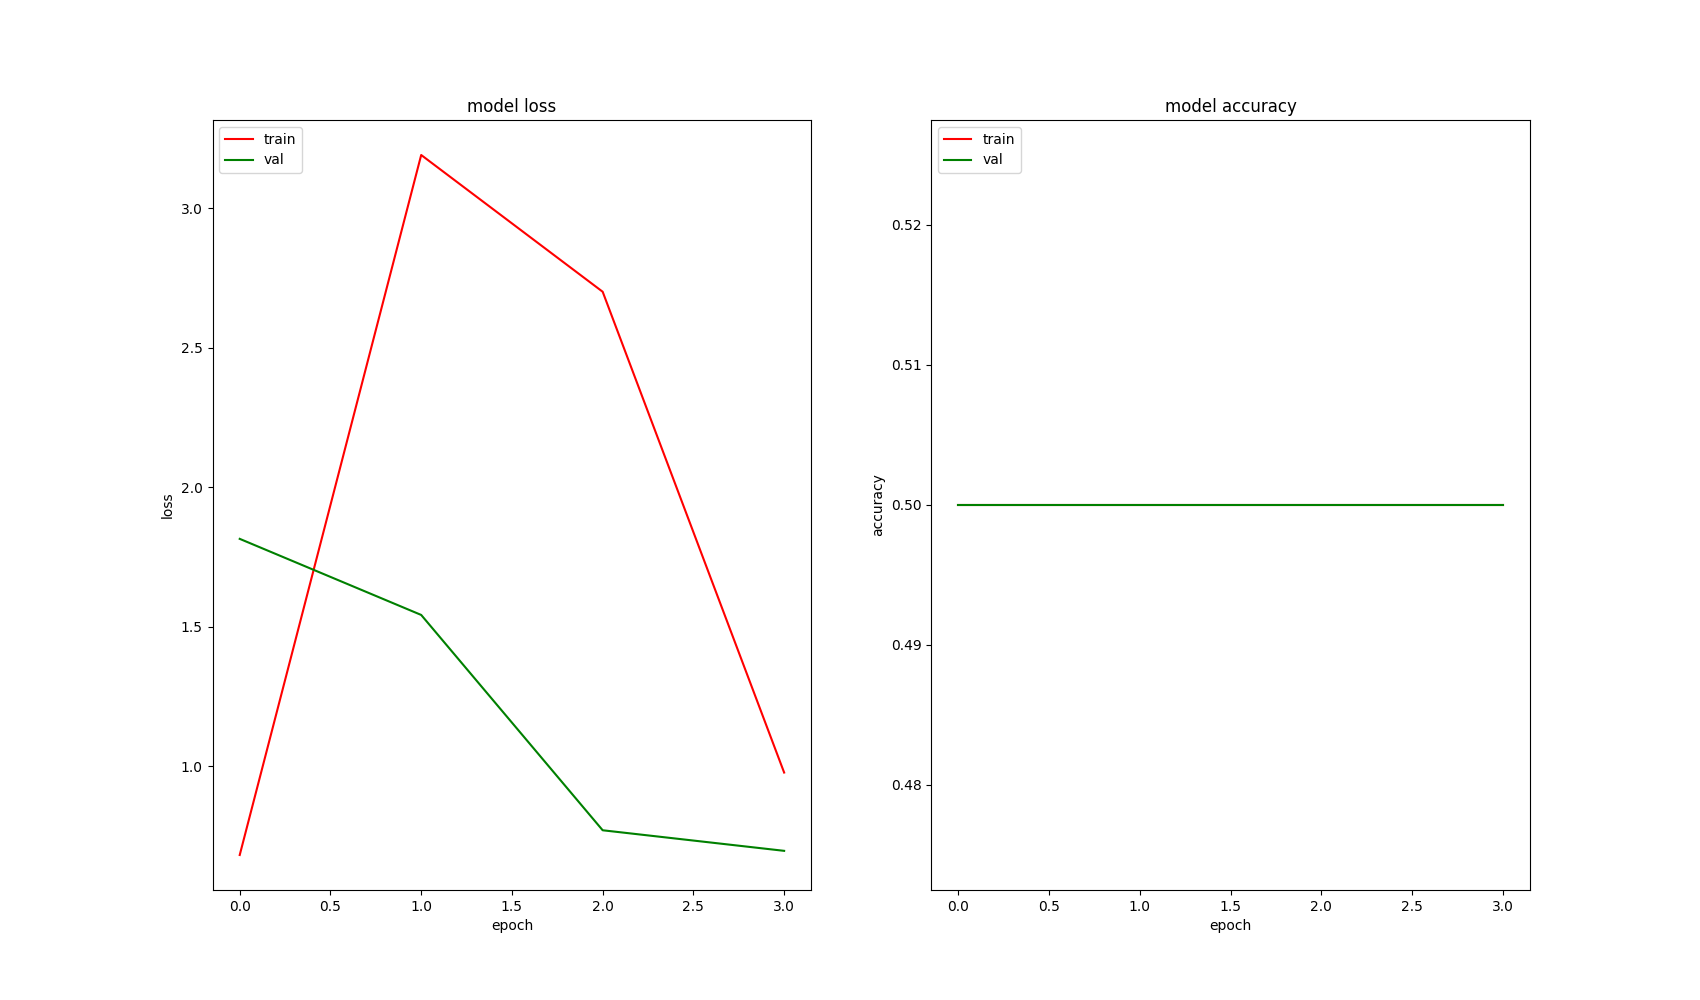
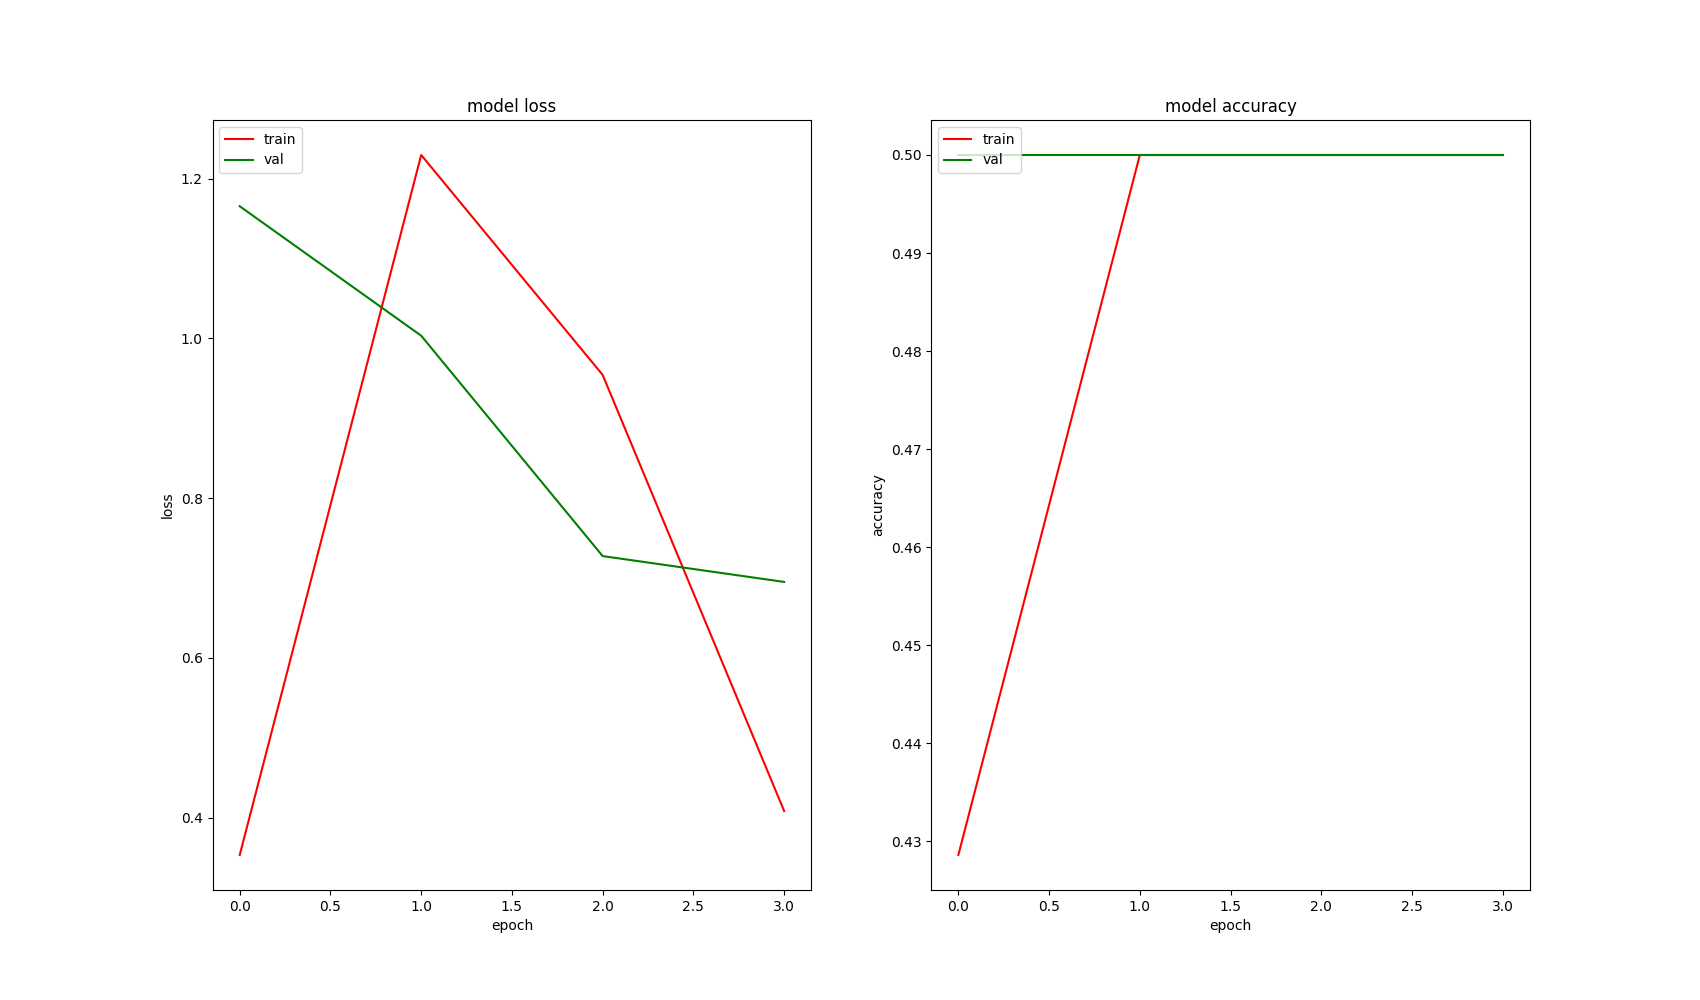
include the class weight

diff --git a/neural_network_model/bit_vision.py b/neural_network_model/bit_vision.py
@@ -84,8 +84,8 @@ class BitVision:
         train test val data details in the dict.
         """
         resource_dir = (
-            self.train_test_val_dir
-            or Path(__file__).parent / ".." / self.train_test_val_dir
+                self.train_test_val_dir
+                or Path(__file__).parent / ".." / self.train_test_val_dir
         )
         # get the list of dirs in the resource_dir
         subdir_name = os.listdir(resource_dir)
@@ -264,8 +264,8 @@ class BitVision:
 
             generator = datagen.flow_from_directory(
                 directory=self.train_test_val_dir / subdir
-                or SETTING.PREPROCESSING_SETTING.TRAIN_TEST_VAL_SPLIT_DIR_ADDRESS
-                / subdir,
+                          or SETTING.PREPROCESSING_SETTING.TRAIN_TEST_VAL_SPLIT_DIR_ADDRESS
+                          / subdir,
                 target_size=SETTING.FLOW_FROM_DIRECTORY_SETTING.TARGET_SIZE,
                 color_mode=SETTING.FLOW_FROM_DIRECTORY_SETTING.COLOR_MODE,
                 classes=None,
@@ -288,7 +288,7 @@ class BitVision:
             logger.info(f"Rescaling {subdir} data, {generator.class_indices}:")
 
     def _check_points(
-        self, model_save_address: str, model_name: str
+            self, model_save_address: str, model_name: str
     ) -> ModelCheckpoint:
         check_point = ModelCheckpoint(
             model_save_address / model_name,
@@ -305,8 +305,24 @@ class BitVision:
         total = sum(my_dict.values())
         return total
 
+    def _calculate_class_weight(self, class_counts: dict) -> dict:
+        class_labels = list(class_counts.keys())
+        class_indices = {label: index for index, label in enumerate(class_labels)}
+
+        total_samples = sum(class_counts.values())
+        class_weight = {}
+        for class_label, count in class_counts.items():
+            class_index = class_indices[class_label]
+            class_weight[class_index] = total_samples / (len(class_counts) * count)
+
+        # Normalize the class weights
+        class_weight_sum = sum(class_weight.values())
+        for class_index in class_weight:
+            class_weight[class_index] /= class_weight_sum
+        return class_weight
+
     def train_model(
-        self, model_save_address: Path = SETTING.MODEL_SETTING.MODEL_PATH, **kwargs
+            self, model_save_address: Path = SETTING.MODEL_SETTING.MODEL_PATH, **kwargs
     ) -> None:
         """
         This function is used to train the model.
@@ -329,6 +345,10 @@ class BitVision:
         BATCH_SIZE = SETTING.FLOW_FROM_DIRECTORY_SETTING.BATCH_SIZE
         TRAINING_SIZE = self._calculate_number_from_dict(self.data_details["train"])
         VALIDATION_SIZE = self._calculate_number_from_dict(self.data_details["val"])
+
+        if not class_weight:
+            class_weight = self._calculate_class_weight(self.data_details["train"])
+
         # We take the ceiling because we do not drop the remainder of the batch
         compute_steps_per_epoch = lambda x: int(math.ceil(1.0 * x / BATCH_SIZE))
         steps_per_epoch = compute_steps_per_epoch(TRAINING_SIZE)
@@ -387,8 +407,8 @@ class BitVision:
 
     @staticmethod
     def _filter_out_list(
-        ignore_list: List[str] = SETTING.IGNORE_SETTING.IGNORE_LIST,
-        list_to_be_edited: List[str] = None,
+            ignore_list: List[str] = SETTING.IGNORE_SETTING.IGNORE_LIST,
+            list_to_be_edited: List[str] = None,
     ) -> List[str]:
         for case in ignore_list:
             if case in list_to_be_edited:
@@ -447,10 +467,10 @@ class BitVision:
 
             for i, img in enumerate(test_images_list[0:number_of_test_to_pred]):
                 path_to_img = (
-                    self.train_test_val_dir
-                    / SETTING.PREPROCESSING_SETTING.TRAIN_TEST_SPLIT_DIR_NAMES[1]
-                    / category
-                    / str(img)
+                        self.train_test_val_dir
+                        / SETTING.PREPROCESSING_SETTING.TRAIN_TEST_SPLIT_DIR_NAMES[1]
+                        / category
+                        / str(img)
                 ).resolve()
 
                 img = load_img(
@@ -631,10 +651,10 @@ class BitVision:
 
     @staticmethod
     def _save_and_display_gradcam(
-        img_path,
-        heatmap,
-        cam_path=SETTING.GRAD_CAM_SETTING.IMAGE_NEW_NAME,
-        alpha=SETTING.GRAD_CAM_SETTING.ALPHA,
+            img_path,
+            heatmap,
+            cam_path=SETTING.GRAD_CAM_SETTING.IMAGE_NEW_NAME,
+            alpha=SETTING.GRAD_CAM_SETTING.ALPHA,
     ):
         # Load the original image
         img = keras.preprocessing.image.load_img(img_path)
@@ -664,7 +684,7 @@ class BitVision:
 
     @staticmethod
     def return_best_model_name(
-        directory: Path = SETTING.MODEL_SETTING.MODEL_PATH,
+            directory: Path = SETTING.MODEL_SETTING.MODEL_PATH,
     ) -> str:
         """
         Return the best model name
@@ -677,9 +697,9 @@ class BitVision:
 
         for filename in os.listdir(directory):
             if (
-                filename.endswith(".h5")
-                and "val_acc" in filename
-                and "val_accuracy" not in filename
+                    filename.endswith(".h5")
+                    and "val_acc" in filename
+                    and "val_accuracy" not in filename
             ):
                 # Extract the validation accuracy from the filename
                 print(filename.split("_val_acc_")[1].split("_.h5")[0])
@@ -709,14 +729,13 @@ if __name__ == "__main__":
     obj.plot_history()
     obj.predict(num_rows=2, num_cols=2, figsize=(4, 10))
     print(obj.layer_names)
-
     for conv_layer in obj.layer_names["conv_layer"]:
         obj.grad_cam_viz(
             gradcam_fig_name="test.png",
             print_layer_names=False,
             test_folder_dir=Path(__file__).parent
-            / ".."
-            / "dataset_train_test_val"
-            / "test",
+                            / ".."
+                            / "dataset_train_test_val"
+                            / "test",
             layer_name=conv_layer,
         )
